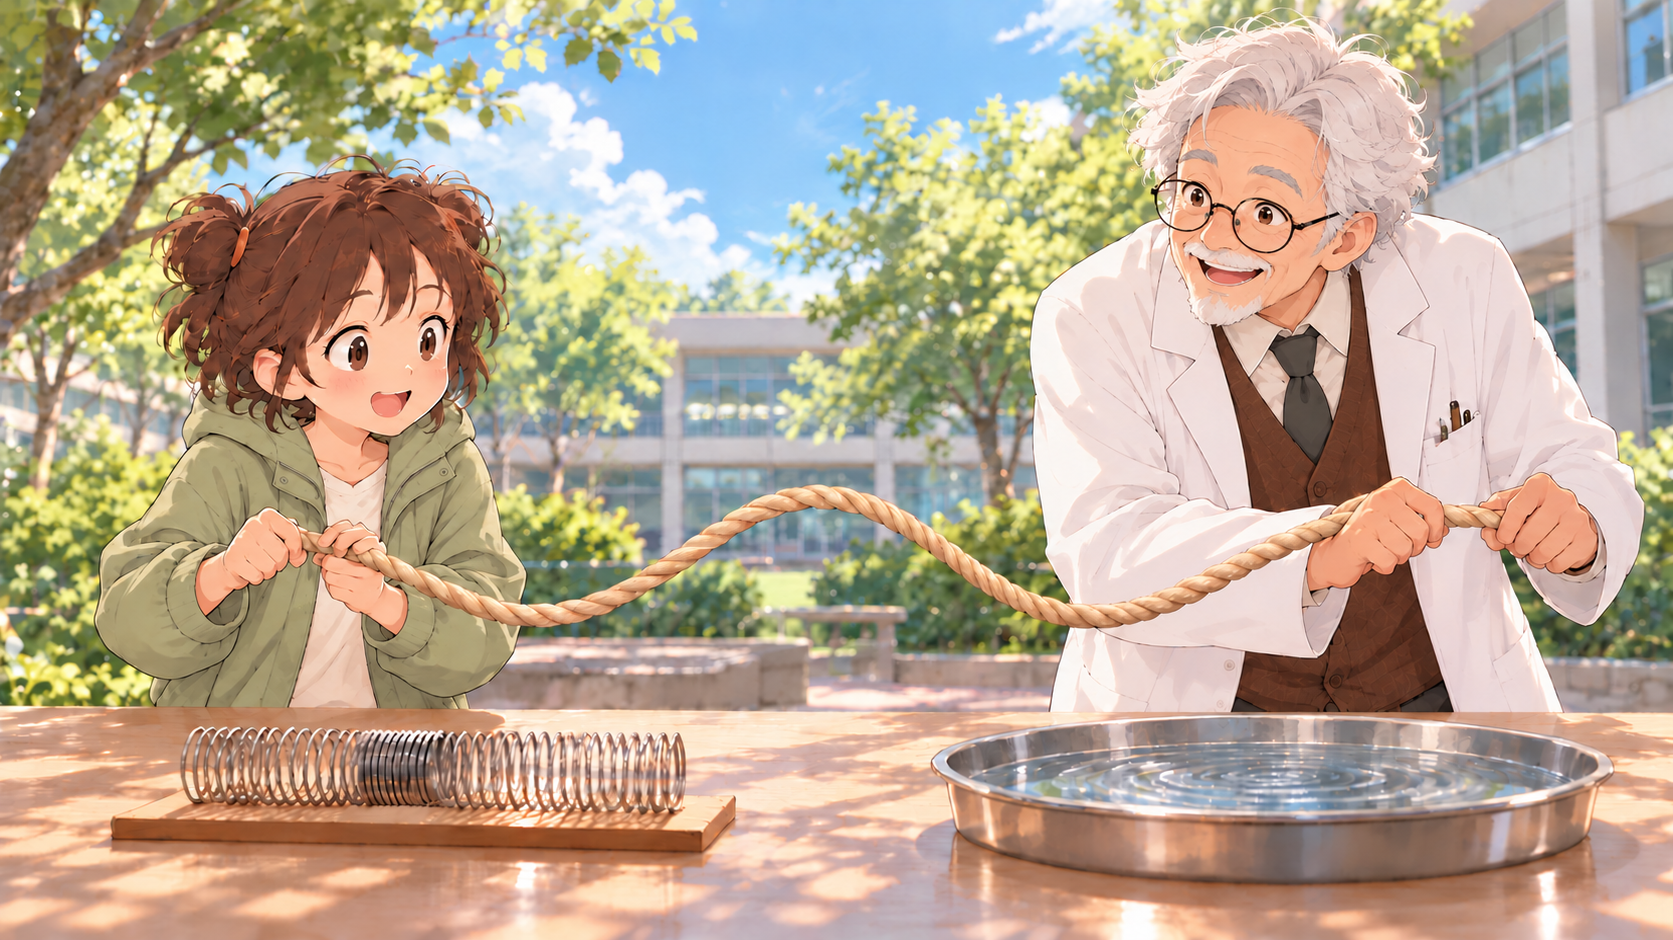
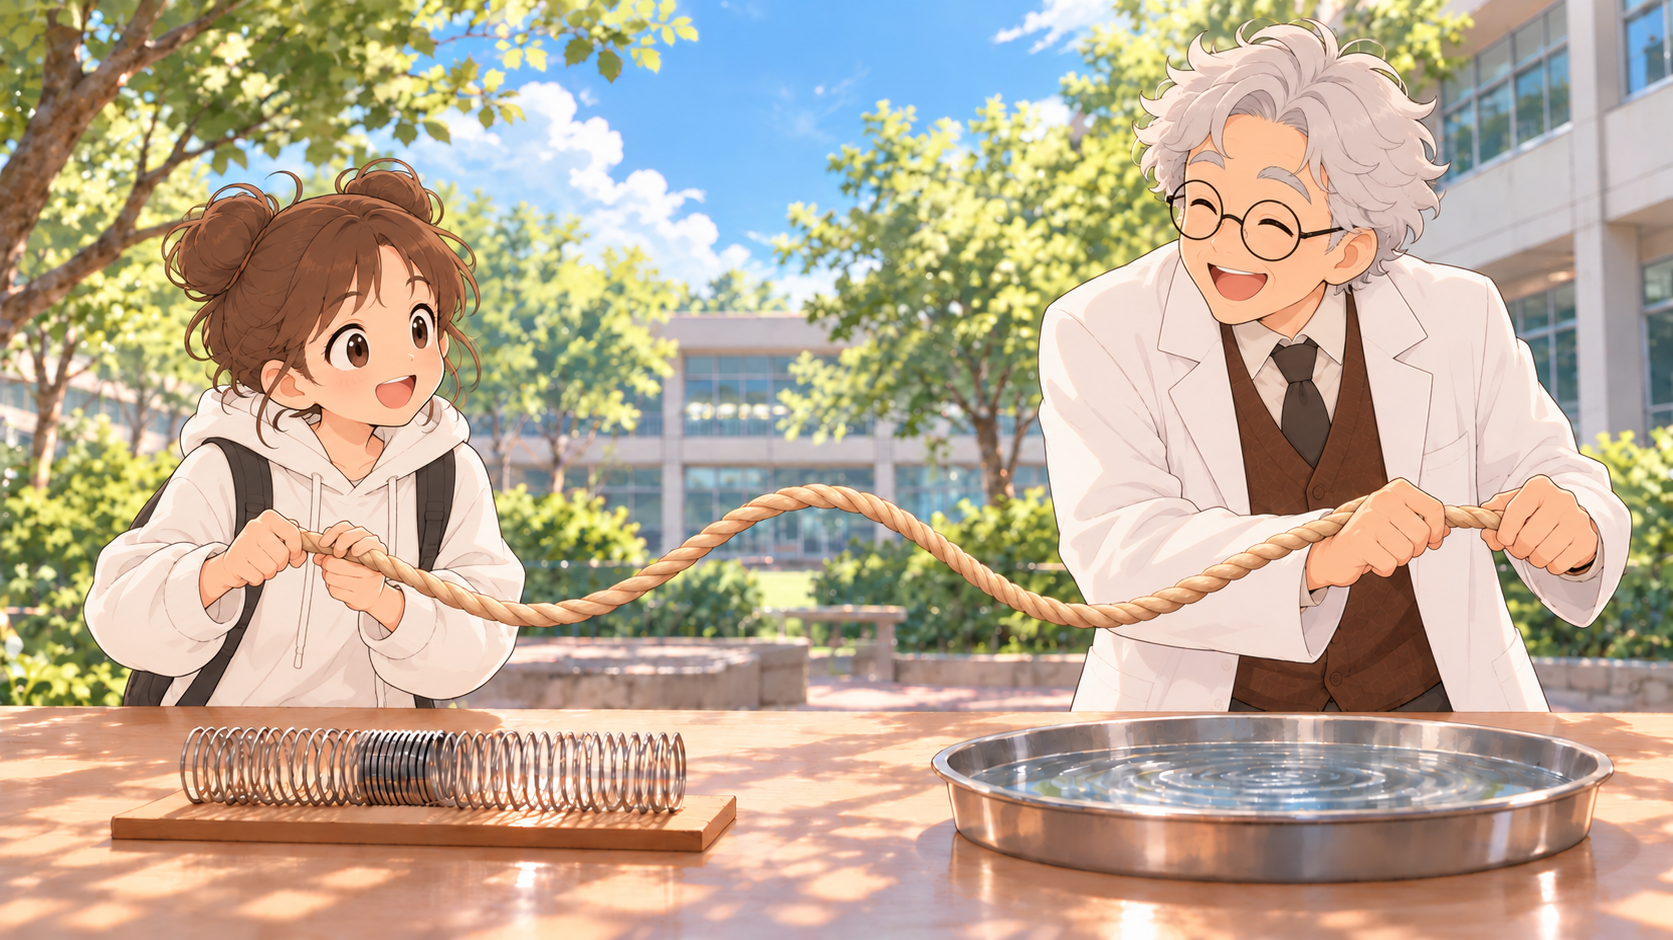
Align wave lesson cover with shared characters

diff --git a/units/2/parts/2.1/index.html b/units/2/parts/2.1/index.html
@@ -425,7 +425,7 @@
     <div class="hero">
       <div class="hero-copy"><div class="eyebrow">波動與聲音｜波的傳播</div><h1>繩子一端被抖動，<br>變化怎麼傳到另一端？</h1><p>小葵和阿公沿著同一條繩波觀察：變化如何傳開？繩上的點又怎麼運動？</p>
       </div>
-      <figure class="story-opening-figure"><img src="assets/wave-story-opening-outdoor.png" alt="戶外科學活動中，小葵和阿公觀察繩子上的波；桌上另有彈簧與水面漣漪作為波的例子。"><figcaption>小葵和阿公從繩波出發，觀察不同形式的波</figcaption></figure>
+      <figure class="story-opening-figure"><img src="assets/wave-story-opening-outdoor.png?v=avatar-aligned-cover" alt="戶外科學活動中，小葵和阿公觀察繩子上的波；桌上另有彈簧與水面漣漪作為波的例子。"><figcaption>小葵和阿公從繩波出發，觀察不同形式的波</figcaption></figure>
     </div>
   </header>
   <main class="shell lesson">
